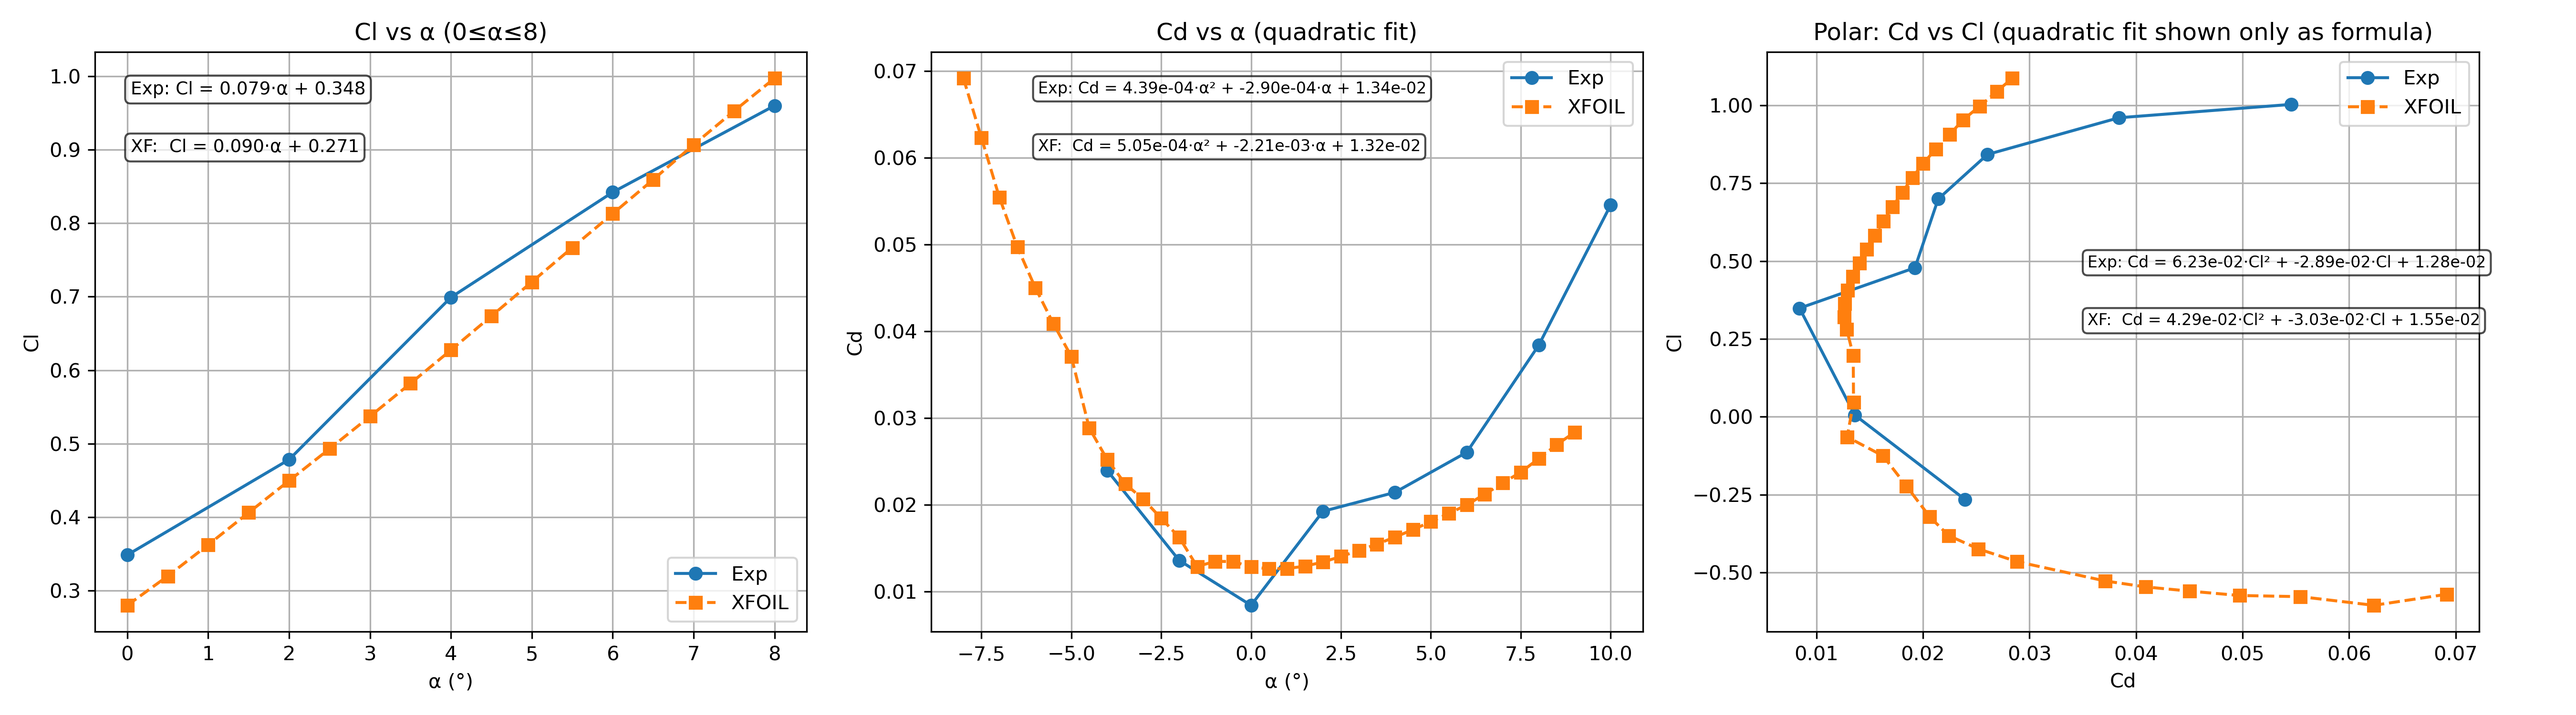
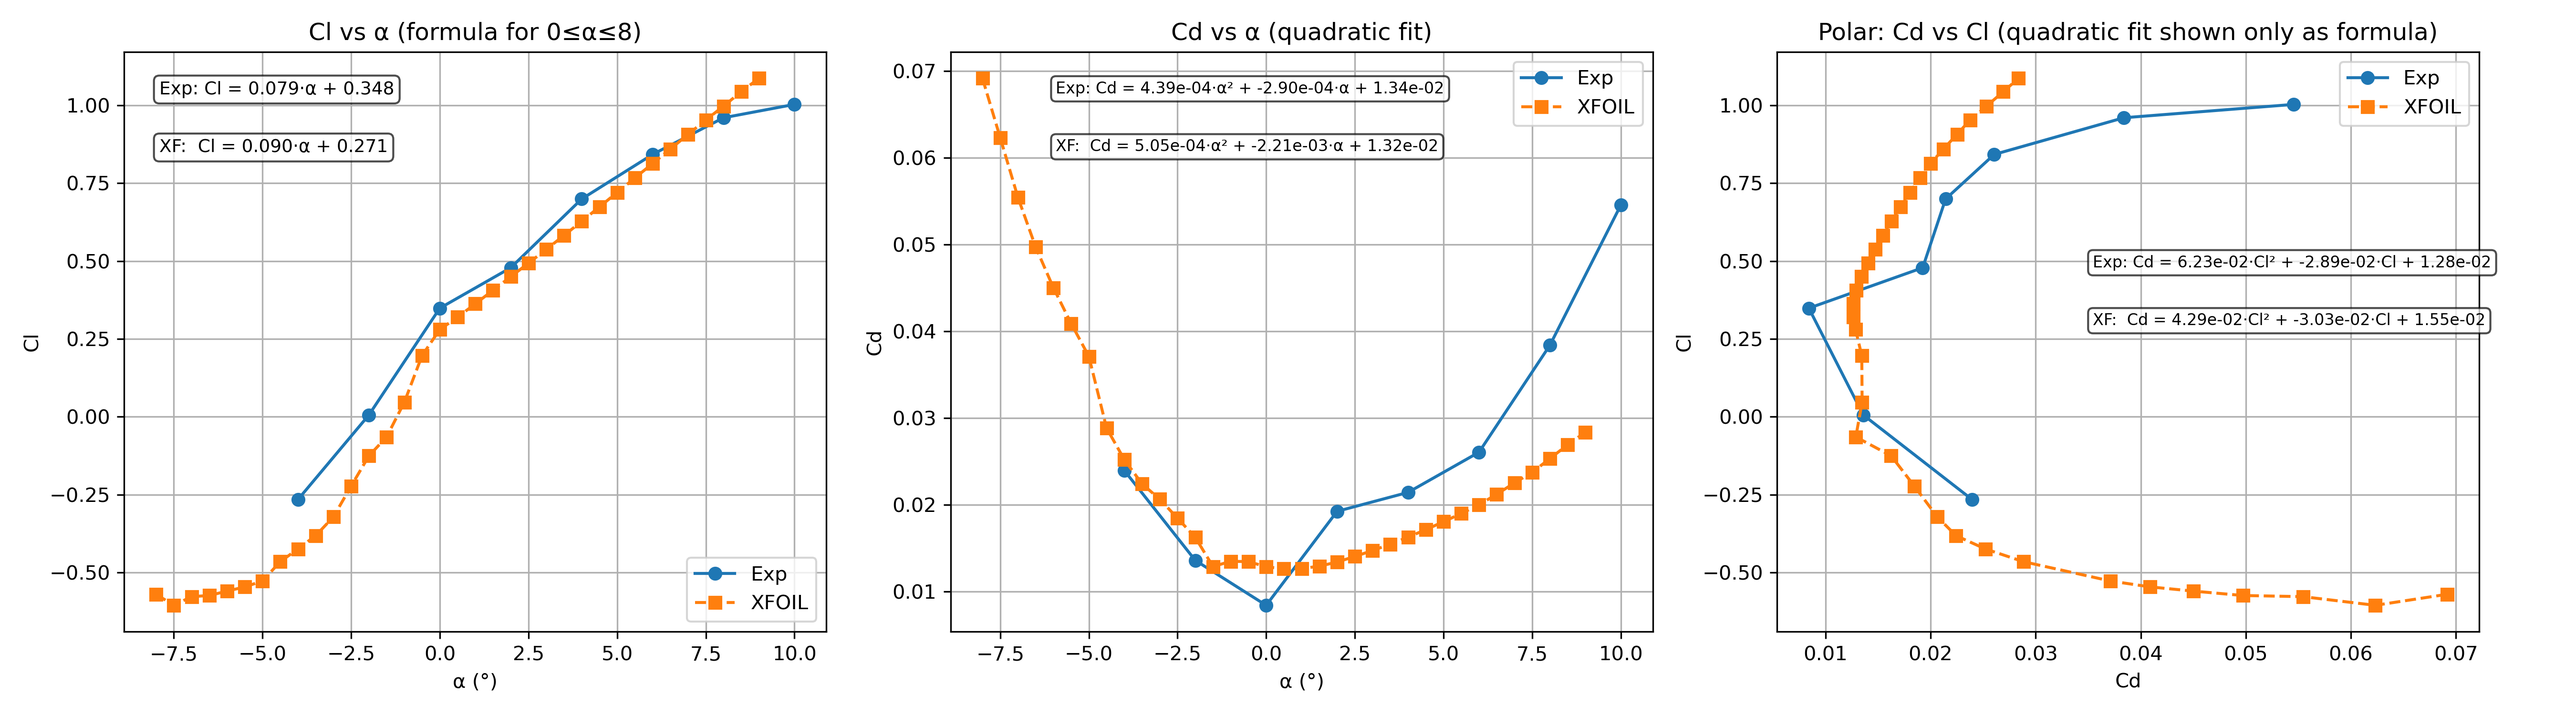
updated xfoil comparison

diff --git a/FInal2.0Var.py b/FInal2.0Var.py
@@ -307,9 +307,9 @@ def compare_exp_xfoil(αe, cle, cde, αx, clx, cdx, base_out, qc_exp):
     fig, axs = plt.subplots(1,3, figsize=(18,5))
 
     # 1) Cl vs α
-    axs[0].plot(αe_cl, cle_cl, 'o-', label='Exp')
-    axs[0].plot(αx_cl, clx_cl, 's--', label='XFOIL')
-    axs[0].set_title("Cl vs α (0≤α≤8)")
+    axs[0].plot(αe, cle, 'o-', label='Exp')
+    axs[0].plot(αx, clx, 's--', label='XFOIL')
+    axs[0].set_title("Cl vs α (formula for 0≤α≤8)")
     axs[0].set_xlabel("α (°)"); axs[0].set_ylabel("Cl")
     axs[0].grid(True)
     txt_e = f"Exp: Cl = {m1_e:.3f}·α + {q1_e:.3f}"
